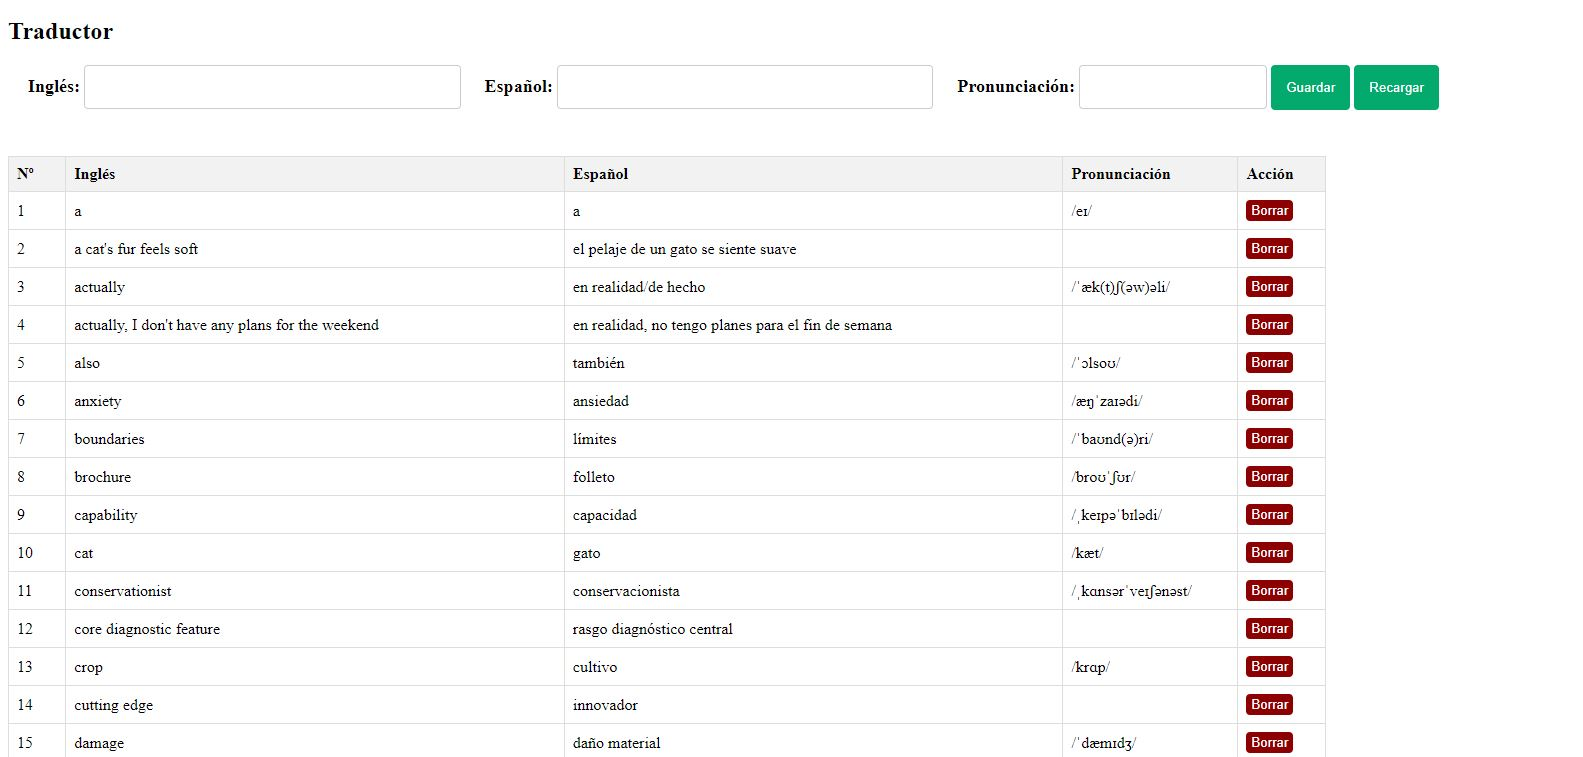
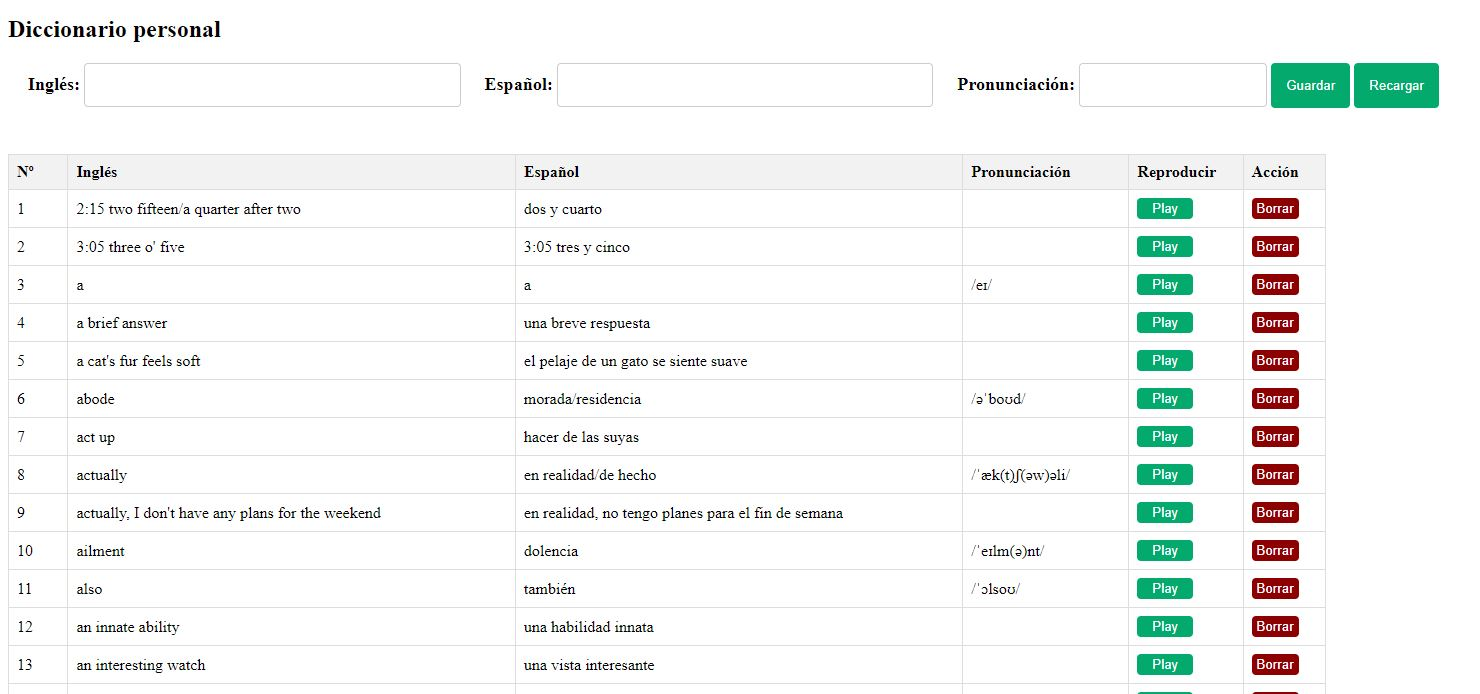
Cambiado preview de la aplicación

diff --git a/diccionario/index.php b/diccionario/index.php
@@ -145,7 +145,7 @@ CREATE TABLE english_spanish (
 
 
 <body>
-    <h2>Traductor</h2>
+    <h2>Diccionario personal</h2>
     <form method="post" action="<?php echo $_SERVER['PHP_SELF']; ?>">
         <label for="english">Inglés:</label>
         <input type="text" id="english" name="english">
